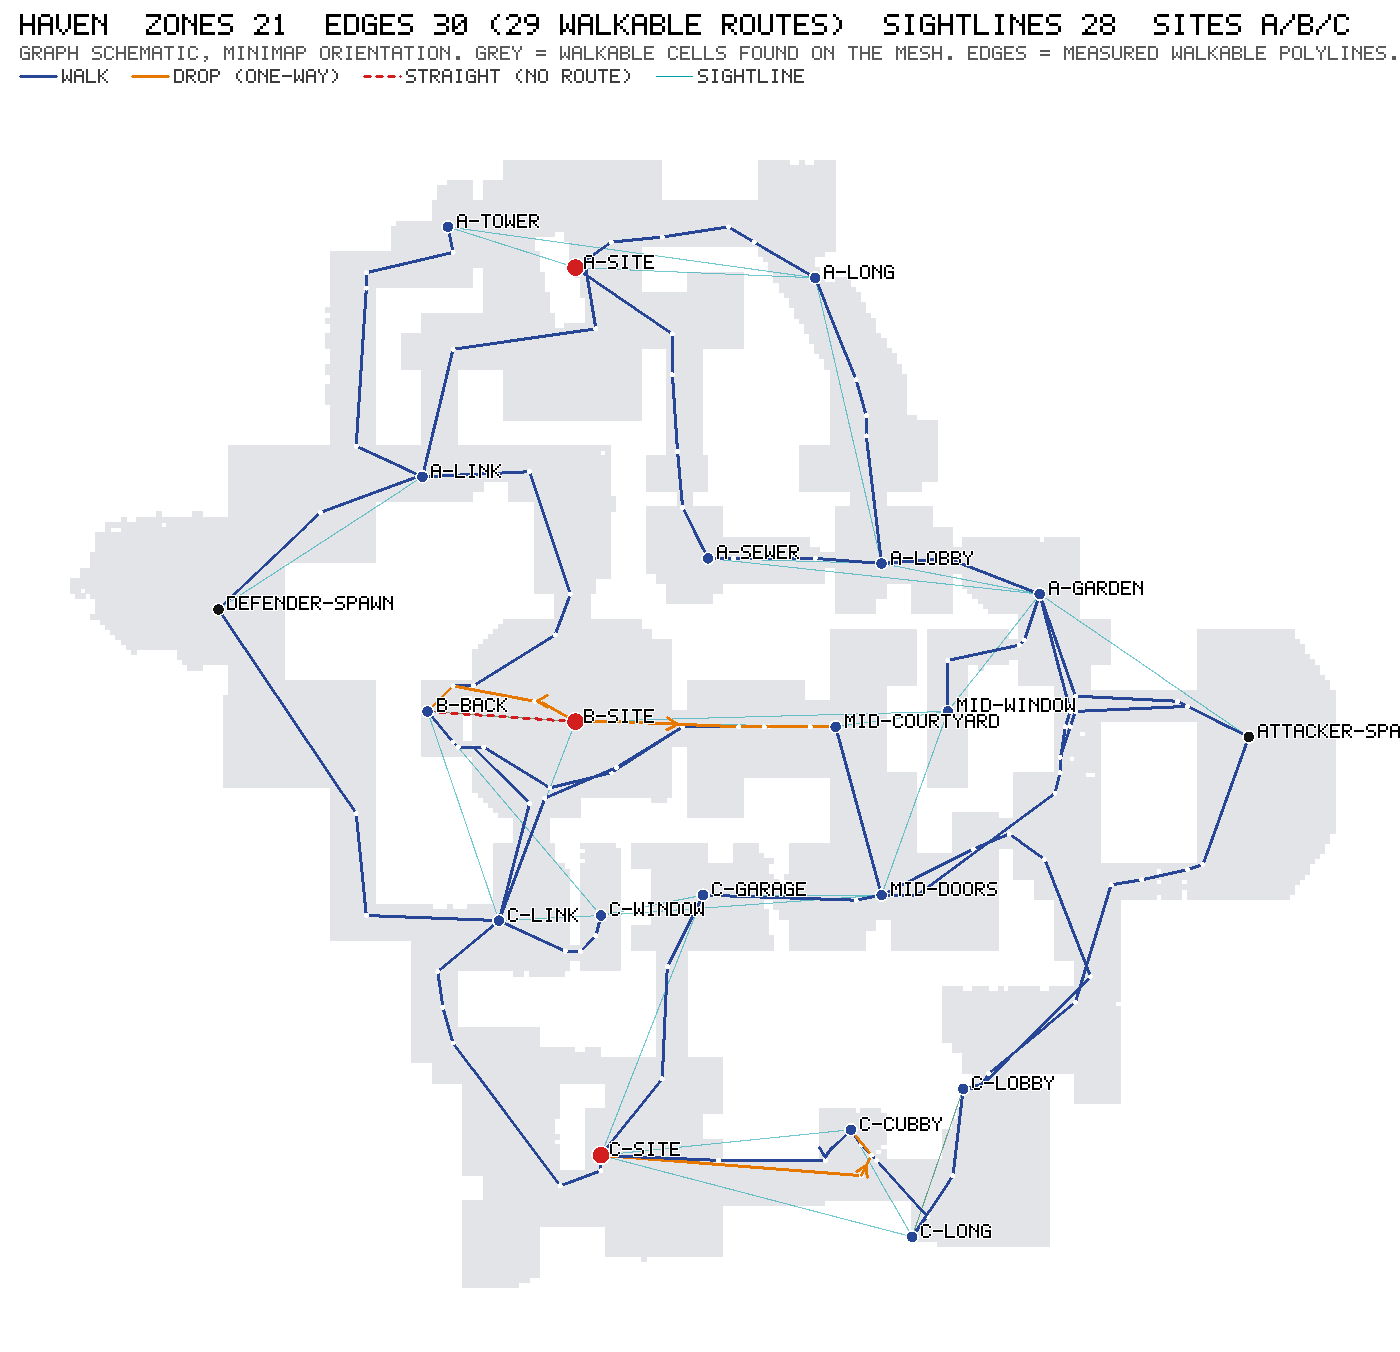
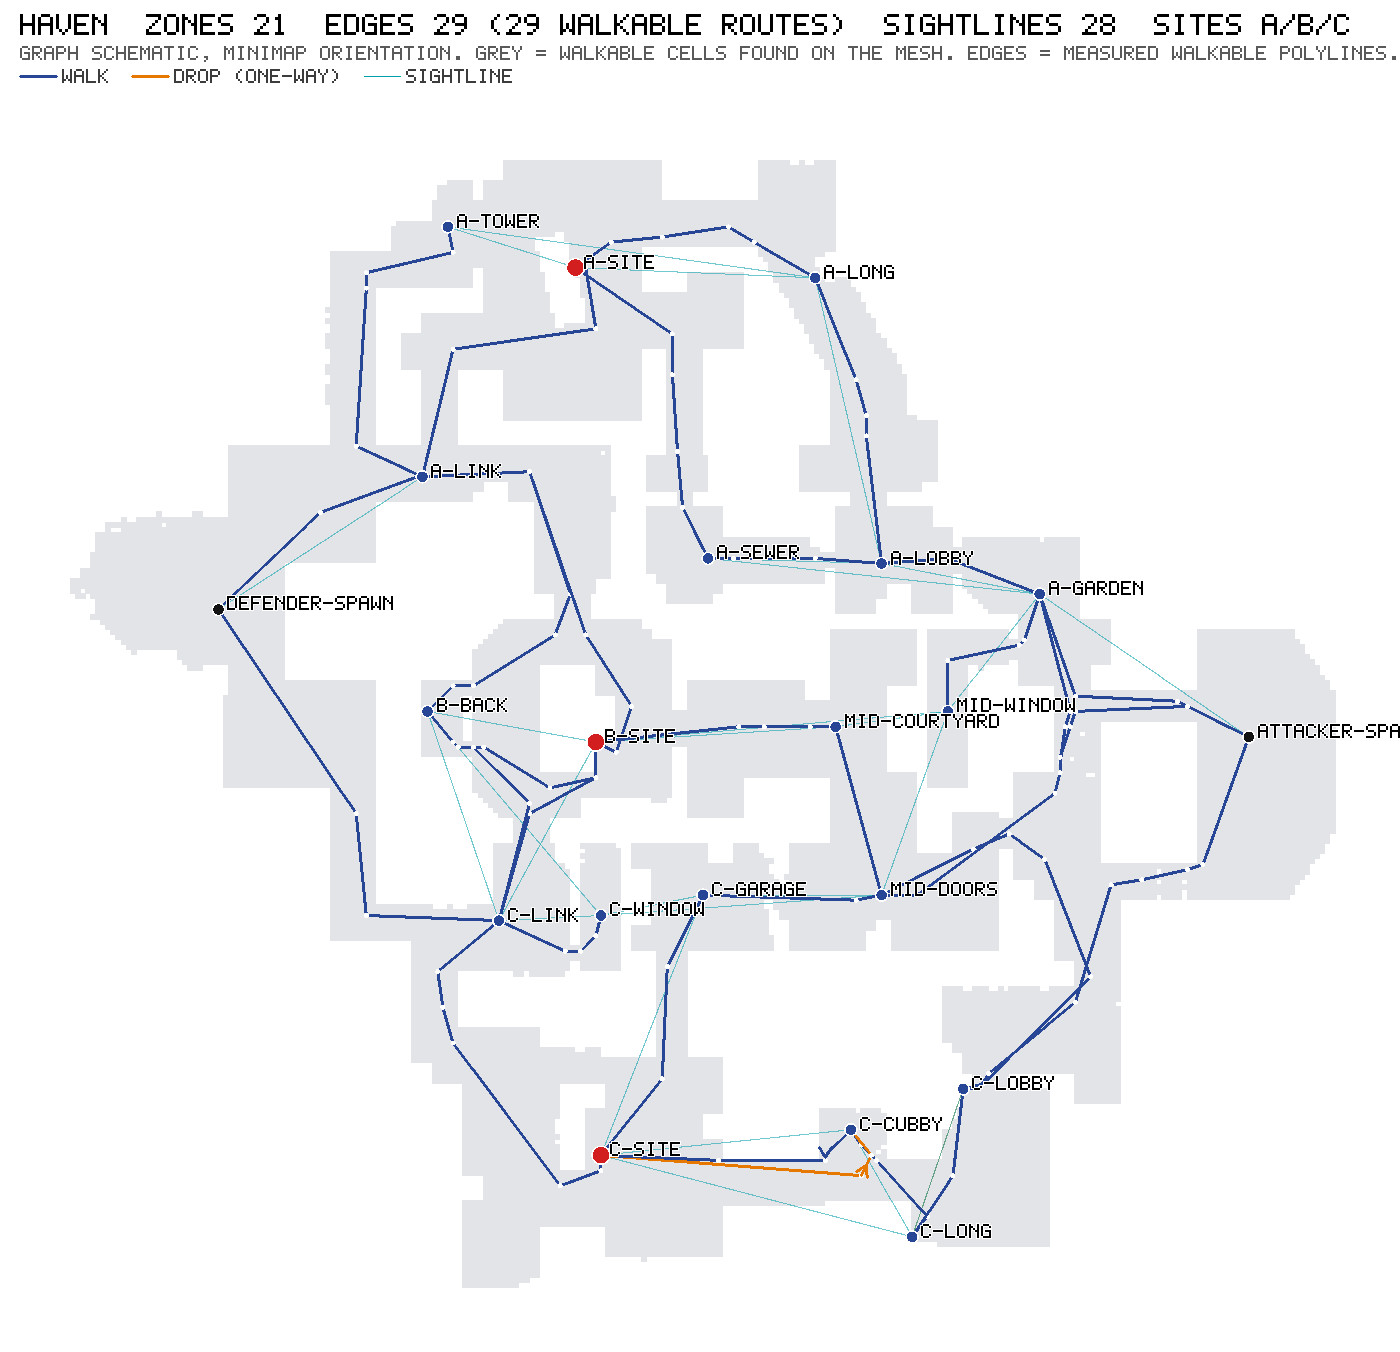
wip(maps): pipeline and test changes for the Haven/Pearl fixes — not validated

Changed region(s): [[0.3686, 0.466, 0.5836, 0.6524], [0.3993, 0.0311, 0.43, 0.0621], [0.3379, 0.0311, 0.3686, 0.0621]]

diff --git a/packages/spatial-engine/test/navigation.test.ts b/packages/spatial-engine/test/navigation.test.ts
@@ -240,9 +240,7 @@ describe("navigation: Ascent", () => {
 /** Zones the walk grid cannot reach on each map (NAVIGATION_ENGINE.md §1) — unreachable, never bridged. */
 const ROADMAP_GAPS: Partial<Record<MapId, string[]>> = {
   abyss: ["a-secret", "b-danger"],
-  haven: ["b-site"],
   icebox: ["a-nest"],
-  pearl: ["a-link", "b-link", "defender-water", "mid-plaza"],
   split: ["mid-vent"],
 };
 
@@ -310,7 +308,6 @@ const sightSummary: string[] = [];
 /** Nearby zone sightlines that the measured point-to-point table does not confirm (see the test). */
 const SIGHTLINE_DISAGREEMENTS: Partial<Record<MapId, string[]>> = {
   ascent: ["a-window~a-site"],                                        // hand-authored line; no standing point of A Window sees one of A Site
-  pearl: ["b-club~b-ramp", "b-club~mid-plaza", "b-club~mid-shops"],   // B Club's callout is stacked on Mid Shops' (wrong floor)
 };
 
 describe.each(MAP_IDS.map((id) => [id] as const))("navigation roadmap: %s", (id: MapId) => {

diff --git a/tools/map-mesh/pipeline/measure_map.py b/tools/map-mesh/pipeline/measure_map.py
@@ -252,16 +252,29 @@ def prepare(mp, derived, raw, authoring, zone_list, debug=False):
                      "calloutsAtFloorHeight(±0.3m)": round(float(np.mean([r[1] for r in rows])), 1)})
 
     # ------------------------------------------------------------------ zone representatives
+    # A map's authoring file may name the floor point a zone stands on ("zoneAnchors": {zone id:
+    # {x, y, z in game uu, basis}}) where the callout itself is not on that floor — a label placed
+    # on top of a structure, or inside a building's footprint. The zone is then snapped from that
+    # point, and its height counts even on a map whose callout heights are not usable. Everything
+    # else (the crop, the transform evidence, the callout residuals) still uses the raw callout.
+    anchor_ov = authoring.get("zoneAnchors", {})
+    unknown = sorted(set(anchor_ov) - set(zid))
+    if unknown:
+        raise ValueError(f"{mp}: zoneAnchors names unknown zone(s) {unknown}")
     rep = np.full(Z, -1, dtype=np.int64)
     snaps = {}
     for i, c in enumerate(cz):
-        dxy = np.hypot(xyz[:, 0] - c[0], xyz[:, 1] - c[1])
+        ov = anchor_ov.get(zid[i])
+        src = np.array([ov["x"], ov["y"], ov["z"]], dtype=np.float64) / 100.0 if ov else c
+        dxy = np.hypot(xyz[:, 0] - src[0], xyz[:, 1] - src[1])
         cand = np.nonzero(big & (dxy <= P["snap_radius"]))[0]
         if cand.size == 0:
             snaps[zid[i]] = {"onMesh": False, "note": f"no walkable cell within {P['snap_radius']} m of the callout"}
             continue
         score = dxy[cand].copy()
-        if z_informative:
+        if ov:
+            score += 0.7 * np.abs(xyz[cand, 2] - src[2])
+        elif z_informative:
             score += 0.7 * np.abs(xyz[cand, 2] - (c[2] + z_offset))
         score += np.where(label[cand] == main_label, 0.0, 3.0)
         k = int(cand[np.argmin(score)])
@@ -276,6 +289,12 @@ def prepare(mp, derived, raw, authoring, zone_list, debug=False):
             "component": int(label[k]),
             "onMainComponent": bool(label[k] == main_label),
         }
+        if ov:
+            snaps[zid[i]].update({
+                "anchorAuthored": True,
+                "authoredAnchor_uu": [ov["x"], ov["y"], ov["z"]],
+                "calloutToAnchorXY_m": round(float(np.hypot(xyz[k, 0] - c[0], xyz[k, 1] - c[1])), 2),
+            })
     placed = [i for i in range(Z) if rep[i] >= 0]
 
     return SimpleNamespace(**{k: v for k, v in locals().items() if k not in ("a", "SimpleNamespace")})

diff --git a/tools/map-processor/build_map.py b/tools/map-processor/build_map.py
@@ -112,7 +112,11 @@ def build(mp):
     callout_pos = {z["id"]: dict(z["position"]) for z in zones}     # before z is snapped to the floor
     for z in zones:
         s = snaps.get(z["id"], {})
-        if s.get("onMesh"):
+        if s.get("onMesh") and s.get("anchorAuthored"):
+            z["position"]["z"] = s["floorZ_uu"]
+            z["positionProvenance"] = ("x,y: valorant-api callout; z: measured-on-mesh (floor at the zone's authored anchor — "
+                                       "the callout is not on its zone's floor, see zoneAnchors in the authoring file)")
+        elif s.get("onMesh"):
             z["position"]["z"] = s["floorZ_uu"]
             z["positionProvenance"] = "x,y: valorant-api callout; z: measured-on-mesh (floor under the callout)"
         else:

diff --git a/tools/map-mesh/README.md b/tools/map-mesh/README.md
@@ -109,6 +109,11 @@ python3 -I tools/map-mesh/align/landmark_check.py > datasets/spatial/transform-l
 - `pipeline/vis_map.py`    — one line-of-sight bit per pair of roadmap points (all eleven maps)
 - `pipeline/render_map.py`, `pipeline/pngdraw.py` — dependency-free PNG schematic
 - `../map-processor/mapzones.py` — callout -> zone rule; `../map-processor/build_map.py` — rules + provenance
+- `datasets/spatial/<map>/<map>.authoring.json` — per-map hand corrections read by the stages above. `zoneAnchors`
+  (`{zone id: {x, y, z, basis}}`, game uu) names the floor point a zone stands on where its callout is not on that
+  floor (Haven B Site: the label is on the roof of the site's central structure; Pearl: five labels inside building
+  footprints / stacked). The zone keeps the callout's x,y as its position; only its anchor and height move. A map
+  without the key is measured exactly as before
 
 Key finding: every scene is a plain export, **game_uu = 100 * (x, -y, z)** of Blender
 coordinates. The 6.6 m-RMS affine recorded for Ascent came from coarse region anchors; the
